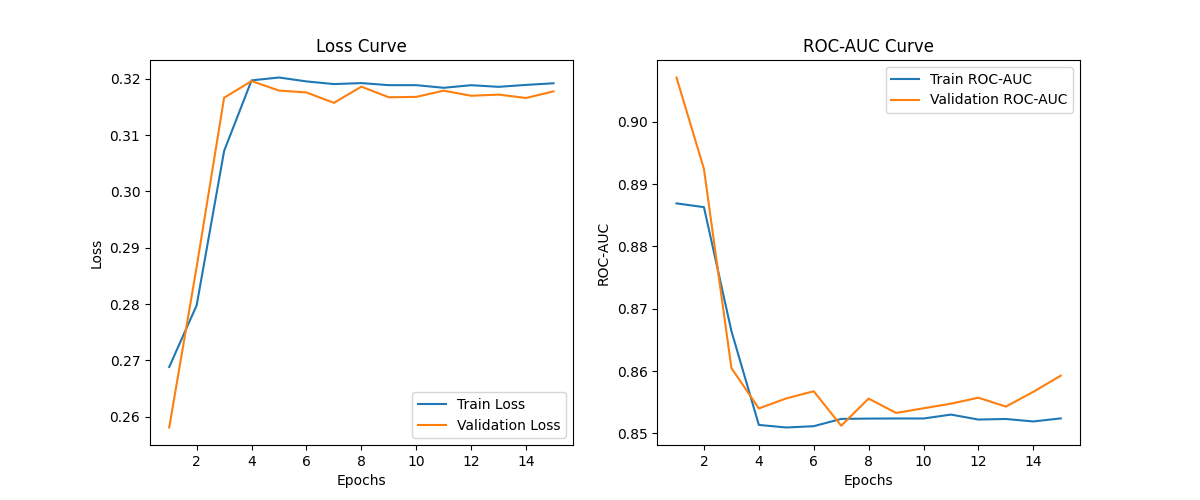
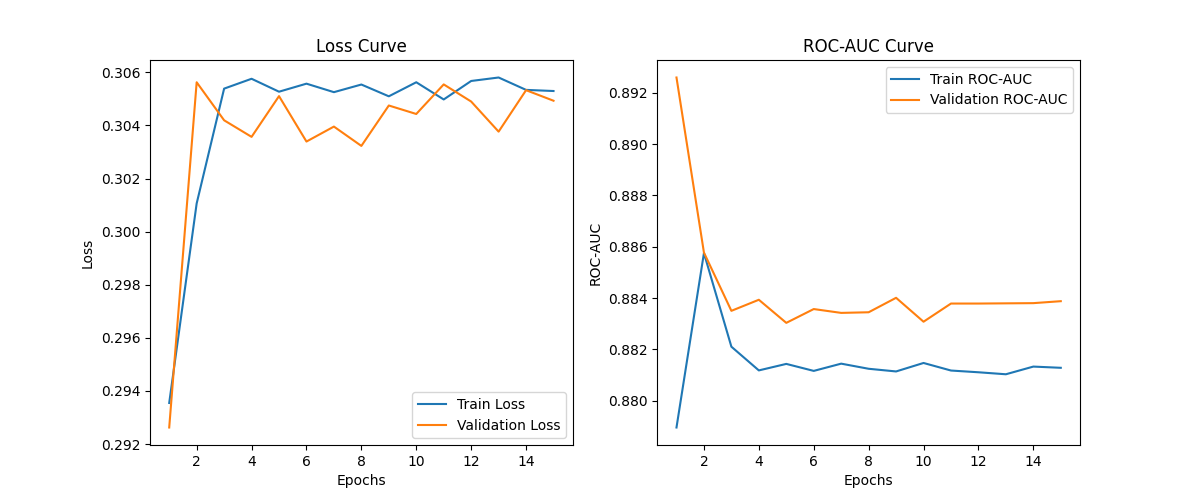
fix

diff --git a/utils.py b/utils.py
@@ -5,7 +5,7 @@ import torch.optim as optim
 from torch.utils.data import DataLoader, TensorDataset
 from sklearn.metrics import roc_auc_score
 from sklearn.model_selection import train_test_split
-from sklearn.preprocessing import StandardScaler, LabelEncoder
+from sklearn.preprocessing import OneHotEncoder, StandardScaler, LabelEncoder
 import pandas as pd
 import numpy as np
 
@@ -18,22 +18,27 @@ def process_data():
 
     num_features = ["person_age", "person_income", "person_emp_length", "loan_amnt", "loan_int_rate", "loan_percent_income", "cb_person_cred_hist_length"]
     cat_features = ["person_home_ownership", "loan_intent", "loan_grade", "cb_person_default_on_file"]
-    scaler = StandardScaler()
-    df[num_features] = scaler.fit_transform(df[num_features])
-    label_encoders = {}
-    for col in cat_features:
-        le = LabelEncoder()
-        df[col] = le.fit_transform(df[col])
-        label_encoders[col] = le
 
     X = df.drop(columns=["loan_status"])
     y = df["loan_status"].values
-    
+
     X_train, X_val, y_train, y_val = train_test_split(X, y, test_size=0.2, random_state=seed, stratify=y)
 
-    X_train_tensor = torch.tensor(X_train.values, dtype=torch.float32)
+    scaler = StandardScaler()
+    X_train_num = scaler.fit_transform(X_train[num_features])
+    X_val_num = scaler.transform(X_val[num_features])
+
+    encoder = OneHotEncoder(handle_unknown='ignore', sparse_output=False)
+    X_train_cat = encoder.fit_transform(X_train[cat_features])
+    X_val_cat = encoder.transform(X_val[cat_features])
+
+    X_train = np.concatenate([X_train_num, X_train_cat], axis=1)
+    X_val = np.concatenate([X_val_num, X_val_cat], axis=1)
+    
+
+    X_train_tensor = torch.tensor(X_train, dtype=torch.float32)
     y_train_tensor = torch.tensor(y_train, dtype=torch.float32)
-    X_val_tensor = torch.tensor(X_val.values, dtype=torch.float32)
+    X_val_tensor = torch.tensor(X_val, dtype=torch.float32)
     y_val_tensor = torch.tensor(y_val, dtype=torch.float32)
     
     batch_size = 32

diff --git a/train2.py b/train2.py
@@ -1,34 +1,36 @@
 import torch.nn as nn
 from utils import show_graphs, train, process_data
 
-class BiggerModel(nn.Module):
-    def __init__(self, input_dim, hidden_size=128):
-        super(BiggerModel, self).__init__()
-        self.fc1 = nn.Linear(input_dim, hidden_size)
-        self.blocks = nn.Sequential(
+class ResidualBlock(nn.Module):
+    def __init__(self, hidden_size):
+        super(ResidualBlock, self).__init__()
+        self.block = nn.Sequential(
             nn.Linear(hidden_size, hidden_size * 4),
             nn.ReLU(),
-
-            nn.Linear(hidden_size * 4, hidden_size),
-            nn.ReLU(),
-
-            nn.Linear(hidden_size, hidden_size * 4),
-            nn.ReLU(),
-
             nn.Linear(hidden_size * 4, hidden_size)
         )
+
+    def forward(self, x):
+        return self.block(x)
+
+class BiggerModel(nn.Module):
+    def __init__(self, input_dim, hidden_size=128, num_blocks=3):
+        super(BiggerModel, self).__init__()
+        self.fc1 = nn.Linear(input_dim, hidden_size)
+        self.blocks = nn.ModuleList([ResidualBlock(hidden_size) for _ in range(num_blocks)])
         self.fc2 = nn.Linear(hidden_size, 1)
         self.sigmoid = nn.Sigmoid()
 
     def forward(self, x):
         x = self.fc1(x)
-        x = self.blocks(x)
+        for block in self.blocks:
+            x = block(x)
         x = self.fc2(x)
         return self.sigmoid(x)
 
 train_loader, val_loader, input_dim = process_data()
 
 model = BiggerModel(input_dim)
-num_epochs = 15
+num_epochs = 17
 train_losses, val_losses, train_roc_auc, val_roc_auc = train(model, train_loader, val_loader, num_epochs)
 show_graphs(train_losses, val_losses, train_roc_auc, val_roc_auc, num_epochs)

diff --git a/train4.py b/train4.py
@@ -9,12 +9,9 @@ class ResidualBlockWithDropout(nn.Module):
             nn.Linear(hidden_size, hidden_size * 4),
             nn.ReLU(),
             nn.Dropout(dropout_p),
-            nn.BatchNorm1d(hidden_size * 4),
             nn.Linear(hidden_size * 4, hidden_size),
-            nn.ReLU(),
-            nn.Dropout(dropout_p)
         )
-    
+
     def forward(self, x):
         return x + self.block(x)
 

diff --git a/train5.py b/train5.py
@@ -9,12 +9,9 @@ class ResidualBlockWithDropout(nn.Module):
             nn.Linear(hidden_size, hidden_size * 4),
             nn.ReLU(),
             nn.Dropout(dropout_p),
-            nn.BatchNorm1d(hidden_size * 4),
             nn.Linear(hidden_size * 4, hidden_size),
-            nn.ReLU(),
-            nn.Dropout(dropout_p)
         )
-    
+
     def forward(self, x):
         return x + self.block(x)
 

diff --git a/train1.py b/train1.py
@@ -27,6 +27,6 @@ show_graphs(train_losses, val_losses, train_roc_auc, val_roc_auc)
 
 # подбираем оптимальное число эпох
 model = SimpleModel(input_dim)
-num_epochs = 15
+num_epochs = 20
 train_losses, val_losses, train_roc_auc, val_roc_auc = train(model, train_loader, val_loader, num_epochs)
 show_graphs(train_losses, val_losses, train_roc_auc, val_roc_auc, num_epochs)

diff --git a/train3.py b/train3.py
@@ -8,9 +8,7 @@ class ResidualBlock(nn.Module):
             nn.BatchNorm1d(hidden_size),
             nn.Linear(hidden_size, hidden_size * 4),
             nn.ReLU(),
-            nn.BatchNorm1d(hidden_size * 4),
             nn.Linear(hidden_size * 4, hidden_size),
-            nn.ReLU()
         )
 
     def forward(self, x):

diff --git a/README.md b/README.md
@@ -3,16 +3,16 @@
 10 эпох:
 ![alt text](<1. 10 epochs.png>)
 
-15 эпох:
-![alt text](<1. 15 epochs.png>)
+20 эпох:
+![alt text](<1. 20 epochs.png>)
 
 ### Выводы по эксперименту 1:
 
-На первых эпохах наблюдается значительное улучшение метрик (сильное снижение лосса и рост ROC-AUC), после 6-7 эпох темп улучшения значительно замедляется, но продолжается до 10-15 эпох.
+На первых эпохах наблюдается значительное улучшение метрик (сильное снижение лосса и рост ROC-AUC), после 6-7 эпох темп улучшения значительно замедляется, но продолжается до 15-17 эпох.
 
-В первой настройке (10 эпох) рост ROC-AUC и снижение лосса продолжаются до конца, при 15 эпохах также видно постепенное улучшение, но разница между 10-й и 15-й эпохами уже минимальна, при большем числе эпох возникает риск переобучения.
+В первой настройке (10 эпох) рост ROC-AUC и снижение лосса продолжаются до конца, при 20 эпохах также видно постепенное улучшение, но разница между 15-й и 20-й эпохами уже минимальна, при большем числе эпох возникает риск переобучения.
 
-Оптимальное число эпох: около 10-12
+Оптимальное число эпох: около 15-17
 
 ## Эксперимент 2
 
@@ -20,9 +20,8 @@
 
 ### Выводы по эксперименту 2:
 
-Модель стала лучше: увеличение hidden size и добавление блоков заметно улучшили качество: финальный ROC-AUC вырос с ~0.88 до 0.90 на валидации, лосс также снизился быстрее и продолжает снижаться после 10 эпох.
+Во втором эксперименте, как и в первом, итоговые метрики ROC-AUC достигают около 0.9, при этом здесь из-за добавления блоков и увеличения hidden size обучение идёт менее равномерно по скорости, модель "разгоняется" медленнее, но после 4-5 эпох обучение идёт стабильнее
 
-На первых эпохах обучение стало медленнее (Epoch 1 ROC-AUC ≈ 0.54 против 0.58 в предыдущем эксперименте), при этом после 5-6 эпох модель начинает быстрее набирать качество, улучшения продолжаются и после 10 эпох, а на 15-й эпохе ещё наблюдается рост ROC-AUC.
 
 ## Эксперимент 3
 
@@ -30,7 +29,7 @@
 
 ### Выводы по эксперименту 3:
 
-Качество модели значительно улучшилось: уже на первой эпохе модель показывает Train ROC-AUC ≈ 0.87 и Val ROC-AUC ≈ 0.90, что значительно лучше по сравнению с предыдущими экспериментами. В итоге, к 15 эпохе достигается Val ROC-AUC ≈ 0.9195, что говорит о высоком качестве.
+Качество модели значительно улучшилось: уже на первой эпохе модель показывает Train ROC-AUC ≈ 0.82 и Val ROC-AUC ≈ 0.89, что значительно лучше по сравнению с предыдущими экспериментами. В итоге, к 15 эпохе достигается Val ROC-AUC ≈ 0.9272, что говорит о высоком качестве.
 Благодаря skip connection и batch norm, модель быстро набирает хорошее качество уже в начале обучения. Улучшения по мере обучения становятся менее заметными, так как с первых эпох достигается высокий уровень.
 
 ## Эксперимент 4
@@ -53,24 +52,25 @@ p = 0.9
 ### Выводы по эксперименту 4:
 
 1. dropout_p = 0.01  
-   Train Loss снижается с 0.2866 → 0.2141, Val Loss с 0.2398 → 0.2089, Val ROC-AUC достигает максимума 0.9203 на 14 эпохе, затем слегка снижается.
+   Train Loss снижается с 0.3307 → 0.1961, Val Loss с 0.2648 → 0.1896, Val ROC-AUC достигает максимума 0.9292 на 14 эпохе.
 
-   При p = 0.01 наблюдается наивысший итоговый Val ROC-AUC среди всех экспериментов (0.9186)
+   При p = 0.01 наблюдается наивысший итоговый Val ROC-AUC среди всех экспериментов (0.9292), небольшое значение dropout практически не влияет на обучение, позволяя добиться высокой производительности
+
 2. dropout_p = 0.1  
-   Train Loss снижается с 0.3042 → 0.2303, Val Loss с 0.2478 → 0.2135, Val ROC-AUC плавно и стабильно растет до 0.9172.
+   Train Loss снижается с 0.3260 → 0.2023, Val Loss с 0.2610 → 0.1921, Val ROC-AUC плавно и стабильно растет до 0.9278.
    Наиболее стабильное обучение: минимальные колебания Val Loss и ROC-AUC.
 
 3. dropout_p = 0.2  
-   Train Loss снижается с 0.3151 → 0.2380, Val Loss с 0.2533 → 0.2207, Val ROC-AUC достигает 0.9135.
+   Train Loss снижается с 0.3290 → 0.2065, Val Loss с 0.2683 → 0.1921, Val ROC-AUC достигает 0.9268.
    Медленное обучение: Val ROC-AUC растет слабее, чем при p=0.1.
-   Больший разрыв между Train и Val Loss, чем у p=0.1 (0.2380 против 0.2207).
+   Больший разрыв между Train и Val Loss, чем у p=0.1
 
 4. dropout_p = 0.5  
-   Train Loss снижается с 0.3439 → 0.2595, Val Loss с 0.3039 → 0.2328, Val ROC-AUC достигает 0.9070.
+   Train Loss снижается с 0.3477 → 0.2203, Val Loss с 0.2700 → 0.2038, Val ROC-AUC достигает 0.9238.
    При p = 0.5 видны признаки недообучения: низкие ROC-AUC и высокий Val Loss даже на поздних эпохах.
 
 5. dropout_p = 0.9  
-   Train Loss снижается с 0.4136 → 0.3166, Val Loss с 0.4472 → 0.3908, Val ROC-AUC не превышает 0.8754.
+   Train Loss снижается с 0.3896 → 0.2533, Val Loss с 0.3172 → 0.2329, Val ROC-AUC не превышает 0.9086.
    Сильное недообучение: крайне высокие потери и низкие ROC-AUC, Dropout "зашумляет" сеть, сильно усложняя обучение.
 
 Итог: оптимальнее всего выбрать dropout_p = 0.1 как значение, обеспечивающее наиболее стабильное и качественное обучение
@@ -106,53 +106,55 @@ lr = 0.05, weight_decay = 0.001
 
 1. lr = 0.01  
    a) weight_decay = 0.1
-   На первой эпохе показатели хорошие (Train ROC-AUC ≈ 0.887, Val ROC-AUC ≈ 0.907), но уже во второй эпохе наблюдается ухудшение – и ROC-AUC, и лоссы ухудшаются.
-   Начиная с 3-й эпохи модель «застревает» – показатели постепенно падают и стабилизируются на уровне Train ROC-AUC ≈ 0.85–0.86 и Val ROC-AUC ≈ 0.85–0.86.
+   На первой эпохе показатели хорошие (Train ROC-AUC ≈ 0.879, Val ROC-AUC ≈ 0.893), но уже во второй эпохе наблюдается ухудшение – и ROC-AUC, и лоссы ухудшаются.
+   Начиная с 3-й эпохи модель «застревает» – показатели постепенно падают и стабилизируются на уровне Train ROC-AUC ≈ 0.881–0.882 и Val ROC-AUC ≈ 0.883–0.884.
    Вывод: Слишком сильная регуляризация (λ=0.1) при низком lr приводит к недообучению.
 
    b) weight_decay = 0.01
-   На первой эпохе показатели хорошие – Train ROC-AUC ≈ 0.888, Val ROC-AUC ≈ 0.910. Модель стабильно улучшается, достигая в промежуточных эпохах ROC-AUC ≈ 0.91–0.92.
-   Итоговые показатели на 15 эпохе – Train ROC-AUC ≈ 0.914, Val ROC-AUC ≈ 0.919, хотя последний шаг немного «откатился» (Val ROC-AUC ≈ 0.9188).
+   На первой эпохе показатели хорошие – Train ROC-AUC ≈ 0.8995, Val ROC-AUC ≈ 0.9215.
+   Итоговые значения приближаются к Train ROC-AUC ≈ 0.923–0.924 и Val ROC-AUC ≈ 0.927–0.928
+
    Вывод: Умеренная регулярзация (λ=0.01) при lr=0.01 позволяет модели обучаться хорошо, но итоговые метрики немного уступают лучшим.
 
    c) weight_decay = 0.001
-   Показатели на старте схожи с предыдущими вариантами – старт около 0.888/0.909.
-   Модель демонстрирует устойчивый рост ROC-AUC, доходя до Epoch 12–14 до Train ROC-AUC ≈ 0.919 и Val ROC-AUC ≈ 0.925. Итоговые метрики наилучшие: финальные значения – Train ROC-AUC ≈ 0.921, Val ROC-AUC ≈ 0.925, а лоссы ниже.
+   Показатели на старте схожи с предыдущими вариантами – старт около 0.90/0.92.
+   Модель демонстрирует устойчивый рост ROC-AUC, доходя до Epoch 12–14 до Train и Val ROC-AUC ≈ 0.93. 
+   Итоговые метрики наилучшие: финальные значения – Train ROC-AUC ≈ 0.9314, Val ROC-AUC ≈ 0.9303, а лоссы ниже.
 
    Вывод: При lr=0.01 уменьшение weight decay до 0.001 даёт наилучший баланс между регуляризацией и способностью модели подстраиваться под данные.
    
 2. lr = 0.1  
    a) weight_decay = 0.1
-   Плохие стартовые показатели – Train ROC-AUC ≈ 0.848, Val ROC-AUC ≈ 0.868.
-   Модель практически не улучшается, итоговые значения остаются низкими (Train ROC-AUC ≈ 0.846, Val ROC-AUC ≈ 0.866).
+   Плохие стартовые показатели – Train ROC-AUC ≈ 0.8771, Val ROC-AUC ≈ 0.8813.
+   Модель практически не улучшается, итоговые значения остаются низкими (Train ROC-AUC ≈ 0.8786, Val ROC-AUC ≈ 0.8855).
    Вывод: Слишком высокая скорость обучения в сочетании с агрессивной регуляризацией приводит к сильному недообучению.
 
    b) weight_decay = 0.01
-   Начальные метрики хорошие (Train ROC-AUC ≈ 0.890, Val ROC-AUC ≈ 0.886), но затем наблюдаются скачки.
-   Итоговые показатели остаются умеренными – примерно Train ROC-AUC ≈ 0.889 и Val ROC-AUC ≈ 0.902.
+   Начальные метрики хорошие (Train ROC-AUC ≈ 0.9077, Val ROC-AUC ≈ 0.9112), но затем наблюдаются скачки.
+   Итоговые показатели остаются невысокими – примерно Train ROC-AUC ≈ 0.9100 и Val ROC-AUC ≈ 0.8968.
    Вывод: При lr=0.1 регуляризация с λ=0.01 не способна компенсировать слишком высокую скорость обучения, итоговое качество ниже, чем при более низком lr.
 
    c) weight_decay = 0.001
-   Показатели стартуют на уровне Train ROC-AUC ≈ 0.887, Val ROC-AUC ≈ 0.910.
-   Модель показывает неоднородное поведение: в некоторых эпохах наблюдаются резкие скачки (например, резкое увеличение Val Loss до 1.3824 или 0.3657), однако к концу обучения показатели стабилизируются – финальные значения Train ROC-AUC ≈ 0.9156, Val ROC-AUC ≈ 0.9244.
+   Показатели стартуют на уровне Train ROC-AUC ≈ 0.9087, Val ROC-AUC ≈ 0.9019.
+   Модель показывает неоднородное поведение: в некоторых эпохах наблюдаются резкие скачки, однако к концу обучения показатели стабилизируются – финальные значения Train и Val ROC-AUC ≈ 0.92-0.93.
 
    Вывод: Несмотря на нестабильность в процессе (что указывает на слишком высокую скорость обучения для данного случая), итоговые метрики могут быть конкурентоспособны, однако процесс обучения менее устойчив по сравнению с lr=0.01.
 
 3. lr = 0.05  
    a) weight_decay = 0.1
-   Уже с первой эпохи показатели хуже – Train ROC-AUC ≈ 0.860, Val ROC-AUC ≈ 0.855.
-   Модель стабильно показывает низкие значения ROC-AUC (около 0.846–0.85) и не улучшается к концу – итоговые метрики около 0.849–0.848.
+   Уже с первой эпохи показатели хуже – Train ROC-AUC ≈ 0.8796, Val ROC-AUC ≈ 0.8842.
+   Модель стабильно показывает низкие значения ROC-AUC (около 0.88) и не улучшается к концу – итоговые метрики около 0.8800–0.8850.
    Вывод: При достаточно высоком weight decay и lr=0.05 модель недообучается.
 
    b) weight_decay = 0.01
-   Начальные значения неплохие – Train ROC-AUC около 0.895, Val ROC-AUC около 0.908, но уже во второй и третьей эпохах наблюдаются скачки
+   Начальные значения неплохие – Train ROC-AUC около  0.909, Val ROC-AUC около 0.92, но уже во второй и третьей эпохах наблюдаются скачки
    Итоговые результаты не показывают улучшения модели – к концу ROC-AUC снижается до ~0.89 (Train) и ~0.902 (Val).
    Вывод: При lr=0.05 увеличение весового распада до 0.01 приводит к нестабильности и, в итоге, снижению качества.
 
    c) weight_decay = 0.001
    Начальные метрики схожи с предыдущими вариантами (Train ROC-AUC ≈ 0.892, Val ROC-AUC ≈ 0.910).
    Модель постепенно улучшает показатели до Epoch 3–5 (ROC-AUC достигает ≈ 0.907–0.912), но наблюдаются значительные скачки в значениях лосса (например, во 4-й и 6-й эпохах – Val Loss резко возрастает).
-   Вывод: Хотя итоговые метрики (финальные Train ROC-AUC ≈ 0.9207, Val ROC-AUC ≈ 0.9234) сопоставимы с lr=0.01/λ=0.001, обучение происходит с заметной нестабильностью и скачками в потерях.
+   Вывод: Хотя итоговые метрики (финальные Train ROC-AUC ≈ 0.9283, Val ROC-AUC ≈ 0.9311) сопоставимы с lr=0.01/λ=0.001, обучение происходит с заметной нестабильностью и скачками в потерях.
 
 
 Выводы:
